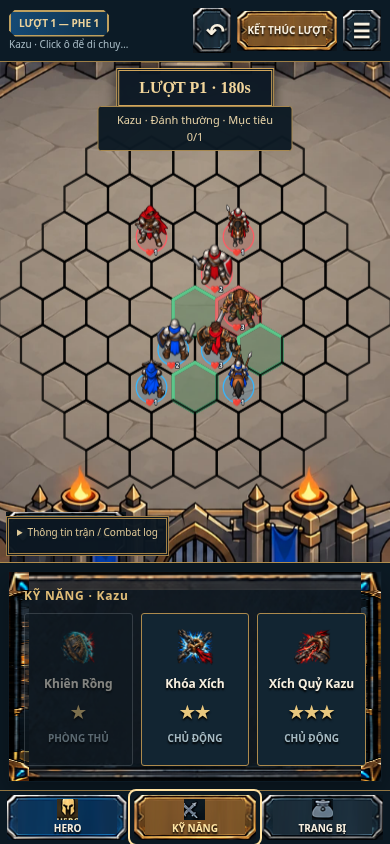
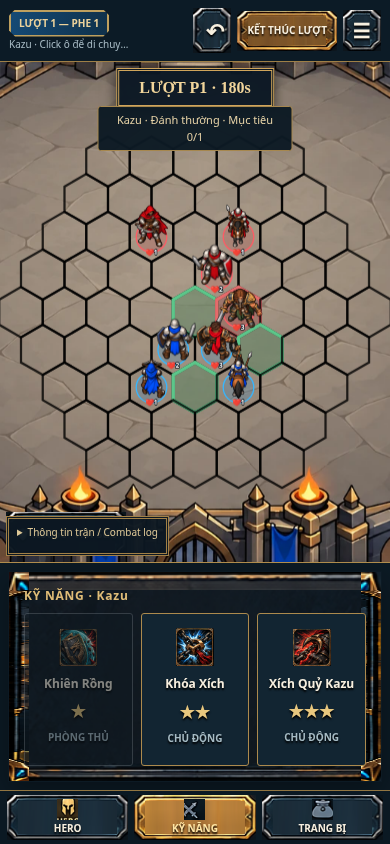
fix(ui): restore framed Kazu skill concept backgrounds

diff --git a/index.html b/index.html
@@ -4,12 +4,12 @@
 <meta charset="utf-8" />
 <meta name="viewport" content="width=device-width,initial-scale=1" />
 <title>Dozen War II — Chiến thuật Đối đầu</title>
-<link rel="stylesheet" href="./styles/main.css?v=1.73.1">
-<link rel="stylesheet" href="./assets/ui/dw-style-01/theme.css?v=1.73.1">
-<link rel="stylesheet" href="./assets/ui/dw-style-01/concept-fidelity.css?v=1.73.1">
-<link rel="stylesheet" href="./assets/ui/dw-style-01/pack.css?v=1.73.1">
+<link rel="stylesheet" href="./styles/main.css?v=1.73.2">
+<link rel="stylesheet" href="./assets/ui/dw-style-01/theme.css?v=1.73.2">
+<link rel="stylesheet" href="./assets/ui/dw-style-01/concept-fidelity.css?v=1.73.2">
+<link rel="stylesheet" href="./assets/ui/dw-style-01/pack.css?v=1.73.2">
 </head>
-<body class="dwUI" data-build-version="1.73.1">
+<body class="dwUI" data-build-version="1.73.2">
 <div class="wrap">
   <div class="top"><div class="brand">DOZEN WAR <b>II</b></div><div class="phase" id="phaseLabel" data-dw-id="SHELL_UI_PHASE_LABEL">CHỌN CHẾ ĐỘ</div></div>
   <div class="grid">
@@ -122,47 +122,47 @@
 <div class="gameOverOverlay" id="gameOverOverlay" data-dw-id="SHELL_UI_GAME_OVER" aria-hidden="true"><div class="gameOverPopup"><div class="gameOverTitle" id="gameOverTitle" data-dw-id="SHELL_UI_GAME_OVER_TITLE">KẾT THÚC TRẬN</div><div class="muted" id="gameOverText" data-dw-id="SHELL_UI_GAME_OVER_TEXT" style="margin-top:8px"></div><div class="resultGrid" id="gameOverResultGrid" data-dw-id="SHELL_UI_GAME_OVER_RESULT_GRID"><div class="resultCard" id="playerResult1" data-dw-id="SHELL_UI_GAME_OVER_P1_CARD"><div class="resultPlayer">PLAYER 1</div><div class="resultOutcome" id="playerResult1Outcome" data-dw-id="SHELL_UI_GAME_OVER_P1_OUTCOME">—</div></div><div class="resultCard" id="playerResult2" data-dw-id="SHELL_UI_GAME_OVER_P2_CARD"><div class="resultPlayer" id="playerResult2Name" data-dw-id="SHELL_UI_GAME_OVER_P2_NAME">PLAYER 2</div><div class="resultOutcome" id="playerResult2Outcome" data-dw-id="SHELL_UI_GAME_OVER_P2_OUTCOME">—</div></div></div><div class="rematchMeta"><div><span class="roomPersistTag">ROOM PERSISTENT</span></div><div><b>Room:</b> <span id="gameOverRoom" data-dw-id="SHELL_UI_GAME_OVER_ROOM">-</span></div><div><b>Mode:</b> <span id="gameOverMode" data-dw-id="SHELL_UI_GAME_OVER_MODE">-</span></div><div><b>Match:</b> <span id="gameOverMatch" data-dw-id="SHELL_UI_GAME_OVER_MATCH">-</span></div></div><div class="rematchPlayers" id="rematchPlayers" data-dw-id="SHELL_UI_REMATCH"></div><div class="rematchHint" id="rematchHint" data-dw-id="SHELL_UI_REMATCH_HINT">Chơi lại sẽ giữ nguyên Room/Mode/Player Slot và tạo Match mới sau khi đủ người đồng ý.</div><div class="gameOverActions" id="gameOverActions" data-dw-id="SHELL_UI_GAME_OVER_ACTIONS"><button class="btn gold" id="rematchBtn" data-dw-id="SHELL_UI_REMATCH_BUTTON">CHƠI LẠI</button><button class="btn" id="leaveMatchBtn" data-dw-id="SHELL_UI_LEAVE_BUTTON">RỜI KHỎI</button></div></div></div>
 
 
-<script defer src="./src/architecture/module-boundaries.js?v=1.73.1"></script>
-<script defer src="./src/ui/ui-dom-runtime.js?v=1.73.1"></script>
-<script defer src="./src/legacy/legacy-prelude-a-tail.js?v=1.73.1"></script>
-<script defer src="./src/mode/mode-registry-runtime.js?v=1.73.1"></script>
-<script defer src="./src/shell/shell-kernel-runtime.js?v=1.73.1"></script>
-<script defer src="./src/mode/mode-definitions-runtime.js?v=1.73.1"></script>
-<script defer src="./src/presentation/hero-fallback-runtime.js?v=1.73.1"></script>
-<script defer src="./src/legacy/legacy-prelude-c.js?v=1.73.1"></script>
-<script defer src="./src/content/content-prelude-runtime.js?v=1.73.1"></script>
-<script defer src="./src/presentation/asset-definitions-runtime.js?v=1.73.1"></script>
-<script defer src="./locales/vi-VN-runtime.js?v=1.73.1"></script>
-<script defer src="./src/content/content-runtime.js?v=1.73.1"></script>
-<script defer src="./src/core/core-foundation-runtime.js?v=1.73.1"></script>
-<script defer src="./src/shell/shell-flow-runtime.js?v=1.73.1"></script>
-<script defer src="./src/core/core-runtime-a.js?v=1.73.1"></script>
-<script defer src="./assets/heroes-camera-06/catalog.js?v=1.73.1"></script>
-<script defer src="./assets/troops-camera-team/catalog.js?v=1.73.1"></script>
-<script defer src="./assets/heroes-camera-06/renderer.js?v=1.73.1"></script>
-<script defer src="./src/presentation/board-renderer-runtime.js?v=1.73.1"></script>
-<script defer src="./src/presentation/duel-board-layout-runtime.js?v=1.73.1"></script>
-<script defer src="./src/presentation/duel-camera-runtime.js?v=1.73.1"></script>
-<script defer src="./src/core/core-runtime-b.js?v=1.73.1"></script>
-<script defer src="./src/shell/shell-session-runtime.js?v=1.73.1"></script>
-<script defer src="./src/legacy/legacy-ai-runtime.js?v=1.73.1"></script>
-<script defer src="./src/shell/shell-gameover-runtime.js?v=1.73.1"></script>
-<script defer src="./src/mode/duel-turn-runtime.js?v=1.73.1"></script>
-<script defer src="./src/debug/playtest-qa-runtime.js?v=1.73.1"></script>
-<script defer src="./src/core/hero-roster-runtime.js?v=1.73.1"></script>
-<script defer src="./src/ui/hero-skill-ui-runtime.js?v=1.73.1"></script>
-<script defer src="./src/core/equipment-runtime.js?v=1.73.1"></script>
-<script defer src="./src/core/multi-equipment-runtime.js?v=1.73.1"></script>
-<script defer src="./src/ui/combat-flow-ui-runtime.js?v=1.73.1"></script>
-<script defer src="./src/shell/shell-boot-runtime.js?v=1.73.1"></script>
-<script defer src="./src/mode/training-runtime.js?v=1.73.1"></script>
-<script defer src="./src/ui/direct-board-flow-runtime.js?v=1.73.1"></script>
-<script defer src="./src/ui/direct-defense-flow-runtime.js?v=1.73.1"></script>
-<script defer src="./src/ui/defense-feedback-runtime.js?v=1.73.1"></script>
-<script defer src="./assets/ui/dw-style-01/pack.js?v=1.73.1"></script>
-<script defer src="./assets/ui/dw-style-01/concept-skins.js?v=1.73.1"></script>
-<script defer src="./src/presentation/dw-ui-runtime.js?v=1.73.1"></script>
-<script defer src="./assets/ui/dw-style-01/pack-runtime.js?v=1.73.1"></script>
-<script defer src="./src/bootstrap.js?v=1.73.1"></script>
+<script defer src="./src/architecture/module-boundaries.js?v=1.73.2"></script>
+<script defer src="./src/ui/ui-dom-runtime.js?v=1.73.2"></script>
+<script defer src="./src/legacy/legacy-prelude-a-tail.js?v=1.73.2"></script>
+<script defer src="./src/mode/mode-registry-runtime.js?v=1.73.2"></script>
+<script defer src="./src/shell/shell-kernel-runtime.js?v=1.73.2"></script>
+<script defer src="./src/mode/mode-definitions-runtime.js?v=1.73.2"></script>
+<script defer src="./src/presentation/hero-fallback-runtime.js?v=1.73.2"></script>
+<script defer src="./src/legacy/legacy-prelude-c.js?v=1.73.2"></script>
+<script defer src="./src/content/content-prelude-runtime.js?v=1.73.2"></script>
+<script defer src="./src/presentation/asset-definitions-runtime.js?v=1.73.2"></script>
+<script defer src="./locales/vi-VN-runtime.js?v=1.73.2"></script>
+<script defer src="./src/content/content-runtime.js?v=1.73.2"></script>
+<script defer src="./src/core/core-foundation-runtime.js?v=1.73.2"></script>
+<script defer src="./src/shell/shell-flow-runtime.js?v=1.73.2"></script>
+<script defer src="./src/core/core-runtime-a.js?v=1.73.2"></script>
+<script defer src="./assets/heroes-camera-06/catalog.js?v=1.73.2"></script>
+<script defer src="./assets/troops-camera-team/catalog.js?v=1.73.2"></script>
+<script defer src="./assets/heroes-camera-06/renderer.js?v=1.73.2"></script>
+<script defer src="./src/presentation/board-renderer-runtime.js?v=1.73.2"></script>
+<script defer src="./src/presentation/duel-board-layout-runtime.js?v=1.73.2"></script>
+<script defer src="./src/presentation/duel-camera-runtime.js?v=1.73.2"></script>
+<script defer src="./src/core/core-runtime-b.js?v=1.73.2"></script>
+<script defer src="./src/shell/shell-session-runtime.js?v=1.73.2"></script>
+<script defer src="./src/legacy/legacy-ai-runtime.js?v=1.73.2"></script>
+<script defer src="./src/shell/shell-gameover-runtime.js?v=1.73.2"></script>
+<script defer src="./src/mode/duel-turn-runtime.js?v=1.73.2"></script>
+<script defer src="./src/debug/playtest-qa-runtime.js?v=1.73.2"></script>
+<script defer src="./src/core/hero-roster-runtime.js?v=1.73.2"></script>
+<script defer src="./src/ui/hero-skill-ui-runtime.js?v=1.73.2"></script>
+<script defer src="./src/core/equipment-runtime.js?v=1.73.2"></script>
+<script defer src="./src/core/multi-equipment-runtime.js?v=1.73.2"></script>
+<script defer src="./src/ui/combat-flow-ui-runtime.js?v=1.73.2"></script>
+<script defer src="./src/shell/shell-boot-runtime.js?v=1.73.2"></script>
+<script defer src="./src/mode/training-runtime.js?v=1.73.2"></script>
+<script defer src="./src/ui/direct-board-flow-runtime.js?v=1.73.2"></script>
+<script defer src="./src/ui/direct-defense-flow-runtime.js?v=1.73.2"></script>
+<script defer src="./src/ui/defense-feedback-runtime.js?v=1.73.2"></script>
+<script defer src="./assets/ui/dw-style-01/pack.js?v=1.73.2"></script>
+<script defer src="./assets/ui/dw-style-01/concept-skins.js?v=1.73.2"></script>
+<script defer src="./src/presentation/dw-ui-runtime.js?v=1.73.2"></script>
+<script defer src="./assets/ui/dw-style-01/pack-runtime.js?v=1.73.2"></script>
+<script defer src="./src/bootstrap.js?v=1.73.2"></script>
 </body>
 </html>

diff --git a/visual-previews/kazu-skills-dw-style-01/index.html b/visual-previews/kazu-skills-dw-style-01/index.html
@@ -7,20 +7,21 @@
   <style>
     *{box-sizing:border-box}body{margin:0;background:#09131c;color:#eee2ca;font:16px/1.6 system-ui,sans-serif}main{max-width:1584px;margin:auto;padding:24px}h1{font:700 clamp(24px,4vw,38px) Georgia,serif;color:#e8bd71}nav{display:flex;gap:14px;flex-wrap:wrap;margin:20px 0}a{color:#a5ddf1}nav a{padding:10px 16px;border:1px solid #ab884d;border-radius:4px;background:#16232e;text-decoration:none}img{display:block;width:100%;height:auto;border:1px solid #79613c}.note{color:#b9c5cc}p{max-width:950px}
   .icons{display:grid;grid-template-columns:repeat(3,minmax(0,1fr));gap:12px}.icons figure{margin:0}.icons img{background:repeating-conic-gradient(#273540 0% 25%,#1c2832 0% 50%) 0/24px 24px}.icons figcaption{text-align:center}@media(max-width:600px){.icons{grid-template-columns:1fr}}
+.framedPreview{display:block;position:relative;overflow:hidden}.icons .framedPreview img{background:none}
   </style>
 </head>
 <body>
 <main>
   <h1>Kazu · Visual kỹ năng · DW-STYLE-01</h1>
   <p><strong>Concept gốc:</strong> Khiên Rồng ★ · Khóa Xích ★★ · Xích Quỷ Kazu ★★★.</p>
-  <p>Ba icon đã tách nền, bỏ chữ và khung ngoài, được đưa vào màn chọn Hero và thanh kỹ năng Kazu. Đây là hình minh họa kỹ năng; hiệu ứng chiến đấu vẫn theo luật hiện tại.</p><nav>
-<a href="../../?v=1.73.1">Chơi thử v1.73.1</a>
-<a href="kazu-transparent-png.zip" download>Tải bộ 3 PNG trong suốt</a>
+  <p>Ba icon dùng trực tiếp hình concept gốc, giữ viền vàng cũ và nền hiệu ứng xanh ngọc, xanh lam, đỏ. Đã áp dụng vào màn chọn Hero và thanh kỹ năng Kazu. Đây là hình minh họa kỹ năng; hiệu ứng chiến đấu vẫn theo luật hiện tại.</p><nav>
+<a href="../../?v=1.73.2">Chơi thử v1.73.2</a>
+<a href="kazu-transparent-png.zip" download>Tải PNG trong suốt · bản cũ</a>
     <a href="kazu-skills-dw-style-01.png" target="_blank" rel="noopener">Mở ảnh PNG gốc</a>
     <a href="kazu-skills-dw-style-01.png" download="Kazu-skills-DW-STYLE-01.png">Tải PNG · 1536 × 1024</a>
   </nav>
-<section class="icons"><figure><img src="../../assets/skills/kazu-dw-style-01/shield.png" alt="Khiên Rồng"><figcaption>Khiên Rồng · <a href="../../assets/skills/kazu-dw-style-01/shield.png" download>Tải PNG</a></figcaption></figure><figure><img src="../../assets/skills/kazu-dw-style-01/chain.png" alt="Khóa Xích"><figcaption>Khóa Xích · <a href="../../assets/skills/kazu-dw-style-01/chain.png" download>Tải PNG</a></figcaption></figure><figure><img src="../../assets/skills/kazu-dw-style-01/dragon.png" alt="Xích Quỷ Kazu"><figcaption>Xích Quỷ Kazu · <a href="../../assets/skills/kazu-dw-style-01/dragon.png" download>Tải PNG</a></figcaption></figure></section>
-<h2>Ảnh chụp thực tế trong game</h2><nav><a href="ingame-desktop.png">Desktop · 1920 × 1080</a><a href="ingame-mobile.png">Mobile · 390 × 844</a><a href="ingame-online.png">Online hai người</a></nav><a href="ingame-desktop.png"><img src="ingame-desktop.png" alt="Kazu trong game v1.73.1 với ba icon kỹ năng nền trong suốt"></a><h2>Concept gốc lưu đối chiếu</h2>
+<section class="icons"><figure><span class="framedPreview" style="aspect-ratio:485/478"><img src="../../assets/skills/kazu-dw-style-01/framed-sheet.png" alt="Khiên Rồng có viền và nền" style="position:absolute;width:316.70103092783506%;height:214.22594142259413%;max-width:none;left:-6.185567010309279%;top:-56.48535564853556%;border:0"></span><figcaption>Khiên Rồng</figcaption></figure><figure><span class="framedPreview" style="aspect-ratio:477/478"><img src="../../assets/skills/kazu-dw-style-01/framed-sheet.png" alt="Khóa Xích có viền và nền" style="position:absolute;width:322.01257861635224%;height:214.22594142259413%;max-width:none;left:-111.9496855345912%;top:-56.48535564853556%;border:0"></span><figcaption>Khóa Xích</figcaption></figure><figure><span class="framedPreview" style="aspect-ratio:482/478"><img src="../../assets/skills/kazu-dw-style-01/framed-sheet.png" alt="Xích Quỷ Kazu có viền và nền" style="position:absolute;width:318.6721991701245%;height:214.22594142259413%;max-width:none;left:-213.07053941908714%;top:-56.48535564853556%;border:0"></span><figcaption>Xích Quỷ Kazu</figcaption></figure></section><details><summary>Lưu trữ bản PNG trong suốt trước đây</summary><section class="icons"><figure><img src="../../assets/skills/kazu-dw-style-01/shield.png" alt="Khiên Rồng"><figcaption>Khiên Rồng · <a href="../../assets/skills/kazu-dw-style-01/shield.png" download>Tải PNG</a></figcaption></figure><figure><img src="../../assets/skills/kazu-dw-style-01/chain.png" alt="Khóa Xích"><figcaption>Khóa Xích · <a href="../../assets/skills/kazu-dw-style-01/chain.png" download>Tải PNG</a></figcaption></figure><figure><img src="../../assets/skills/kazu-dw-style-01/dragon.png" alt="Xích Quỷ Kazu"><figcaption>Xích Quỷ Kazu · <a href="../../assets/skills/kazu-dw-style-01/dragon.png" download>Tải PNG</a></figcaption></figure></section></details>
+<h2>Ảnh chụp thực tế trong game</h2><nav><a href="ingame-desktop.png">Desktop · 1920 × 1080</a><a href="ingame-mobile.png">Mobile · 390 × 844</a><a href="ingame-online.png">Online hai người</a></nav><a href="ingame-desktop.png"><img src="ingame-desktop.png" alt="Kazu trong game v1.73.2 với ba icon kỹ năng có viền vàng và nền màu"></a><h2>Concept gốc lưu đối chiếu</h2>
   <a href="kazu-skills-dw-style-01.png"><img src="kazu-skills-dw-style-01.png" width="1536" height="1024" alt="Ba visual kỹ năng Kazu: Khiên Rồng với lớp bảo hộ xanh ngọc, Khóa Xích với khóa kim loại và xích trên nền xanh, Xích Quỷ Kazu với móc kéo và xích trên nền đỏ."></a>
   <p class="note">Đây là ảnh gốc đã tạo, giữ nguyên chất lượng. Bạn có thể mở ảnh rồi dùng “Lưu hình ảnh thành…” nếu trình duyệt không tải trực tiếp.</p>
 </main>

diff --git a/dist/index.html b/dist/index.html
@@ -5,11 +5,11 @@
 <meta name="viewport" content="width=device-width,initial-scale=1" />
 <title>Dozen War II — Chiến thuật Đối đầu</title>
 <link rel="stylesheet" href="./assets/app.67385980da13.css">
-<link rel="stylesheet" href="./assets/ui/dw-style-01/theme.css?v=1.73.1">
-<link rel="stylesheet" href="./assets/ui/dw-style-01/concept-fidelity.css?v=1.73.1">
-<link rel="stylesheet" href="./assets/ui/dw-style-01/pack.css?v=1.73.1">
+<link rel="stylesheet" href="./assets/ui/dw-style-01/theme.css?v=1.73.2">
+<link rel="stylesheet" href="./assets/ui/dw-style-01/concept-fidelity.css?v=1.73.2">
+<link rel="stylesheet" href="./assets/ui/dw-style-01/pack.css?v=1.73.2">
 </head>
-<body class="dwUI" data-build-version="1.73.1">
+<body class="dwUI" data-build-version="1.73.2">
 <div class="wrap">
   <div class="top"><div class="brand">DOZEN WAR <b>II</b></div><div class="phase" id="phaseLabel" data-dw-id="SHELL_UI_PHASE_LABEL">CHỌN CHẾ ĐỘ</div></div>
   <div class="grid">
@@ -120,6 +120,6 @@
   </div>
 </div>
 <div class="gameOverOverlay" id="gameOverOverlay" data-dw-id="SHELL_UI_GAME_OVER" aria-hidden="true"><div class="gameOverPopup"><div class="gameOverTitle" id="gameOverTitle" data-dw-id="SHELL_UI_GAME_OVER_TITLE">KẾT THÚC TRẬN</div><div class="muted" id="gameOverText" data-dw-id="SHELL_UI_GAME_OVER_TEXT" style="margin-top:8px"></div><div class="resultGrid" id="gameOverResultGrid" data-dw-id="SHELL_UI_GAME_OVER_RESULT_GRID"><div class="resultCard" id="playerResult1" data-dw-id="SHELL_UI_GAME_OVER_P1_CARD"><div class="resultPlayer">PLAYER 1</div><div class="resultOutcome" id="playerResult1Outcome" data-dw-id="SHELL_UI_GAME_OVER_P1_OUTCOME">—</div></div><div class="resultCard" id="playerResult2" data-dw-id="SHELL_UI_GAME_OVER_P2_CARD"><div class="resultPlayer" id="playerResult2Name" data-dw-id="SHELL_UI_GAME_OVER_P2_NAME">PLAYER 2</div><div class="resultOutcome" id="playerResult2Outcome" data-dw-id="SHELL_UI_GAME_OVER_P2_OUTCOME">—</div></div></div><div class="rematchMeta"><div><span class="roomPersistTag">ROOM PERSISTENT</span></div><div><b>Room:</b> <span id="gameOverRoom" data-dw-id="SHELL_UI_GAME_OVER_ROOM">-</span></div><div><b>Mode:</b> <span id="gameOverMode" data-dw-id="SHELL_UI_GAME_OVER_MODE">-</span></div><div><b>Match:</b> <span id="gameOverMatch" data-dw-id="SHELL_UI_GAME_OVER_MATCH">-</span></div></div><div class="rematchPlayers" id="rematchPlayers" data-dw-id="SHELL_UI_REMATCH"></div><div class="rematchHint" id="rematchHint" data-dw-id="SHELL_UI_REMATCH_HINT">Chơi lại sẽ giữ nguyên Room/Mode/Player Slot và tạo Match mới sau khi đủ người đồng ý.</div><div class="gameOverActions" id="gameOverActions" data-dw-id="SHELL_UI_GAME_OVER_ACTIONS"><button class="btn gold" id="rematchBtn" data-dw-id="SHELL_UI_REMATCH_BUTTON">CHƠI LẠI</button><button class="btn" id="leaveMatchBtn" data-dw-id="SHELL_UI_LEAVE_BUTTON">RỜI KHỎI</button></div></div></div>
-<script defer src="./assets/runtime.48b6d31e8a61.js"></script>
+<script defer src="./assets/runtime.1cdc72a54972.js"></script>
 </body>
 </html>

diff --git a/dist/online/index.html b/dist/online/index.html
@@ -4,20 +4,20 @@
     <meta charset="utf-8" />
     <meta name="viewport" content="width=device-width,initial-scale=1" />
     <title>DozenWar · Online 1v1</title>
-    <link rel="stylesheet" href="./style.css?v=1.73.1" />
-    <link rel="stylesheet" href="../assets/ui/dw-style-01/theme.css?v=1.73.1" />
-<link rel="stylesheet" href="../assets/ui/dw-style-01/concept-fidelity.css?v=1.73.1">
-<link rel="stylesheet" href="../assets/ui/dw-style-01/pack.css?v=1.73.1">
+    <link rel="stylesheet" href="./style.css?v=1.73.2" />
+    <link rel="stylesheet" href="../assets/ui/dw-style-01/theme.css?v=1.73.2" />
+<link rel="stylesheet" href="../assets/ui/dw-style-01/concept-fidelity.css?v=1.73.2">
+<link rel="stylesheet" href="../assets/ui/dw-style-01/pack.css?v=1.73.2">
     <script defer src="./config.js"></script>
-    <script defer src="../assets/heroes-camera-06/catalog.js?v=1.73.1"></script>
-    <script defer src="../assets/troops-camera-team/catalog.js?v=1.73.1"></script>
-<script defer src="../assets/heroes-camera-06/renderer.js?v=1.73.1"></script>
-<script defer src="../assets/ui/dw-style-01/pack.js?v=1.73.1"></script>
-<script defer src="../assets/ui/dw-style-01/concept-skins.js?v=1.73.1"></script>
-    <script defer src="../assets/ui/dw-style-01/pack-runtime.js?v=1.73.1"></script>
-<script defer src="./client.js?v=1.73.1"></script>
+    <script defer src="../assets/heroes-camera-06/catalog.js?v=1.73.2"></script>
+    <script defer src="../assets/troops-camera-team/catalog.js?v=1.73.2"></script>
+<script defer src="../assets/heroes-camera-06/renderer.js?v=1.73.2"></script>
+<script defer src="../assets/ui/dw-style-01/pack.js?v=1.73.2"></script>
+<script defer src="../assets/ui/dw-style-01/concept-skins.js?v=1.73.2"></script>
+    <script defer src="../assets/ui/dw-style-01/pack-runtime.js?v=1.73.2"></script>
+<script defer src="./client.js?v=1.73.2"></script>
   </head>
-  <body class="dwUI dwOnline" data-build-version="1.73.1">
+  <body class="dwUI dwOnline" data-build-version="1.73.2">
     <header>
       <a href="../">DOZEN WAR <b>II</b></a
       ><span>ONLINE · ĐỐI ĐẦU 1V1</span

diff --git a/online/index.html b/online/index.html
@@ -4,20 +4,20 @@
     <meta charset="utf-8" />
     <meta name="viewport" content="width=device-width,initial-scale=1" />
     <title>DozenWar · Online 1v1</title>
-    <link rel="stylesheet" href="./style.css?v=1.73.1" />
-    <link rel="stylesheet" href="../assets/ui/dw-style-01/theme.css?v=1.73.1" />
-<link rel="stylesheet" href="../assets/ui/dw-style-01/concept-fidelity.css?v=1.73.1">
-<link rel="stylesheet" href="../assets/ui/dw-style-01/pack.css?v=1.73.1">
+    <link rel="stylesheet" href="./style.css?v=1.73.2" />
+    <link rel="stylesheet" href="../assets/ui/dw-style-01/theme.css?v=1.73.2" />
+<link rel="stylesheet" href="../assets/ui/dw-style-01/concept-fidelity.css?v=1.73.2">
+<link rel="stylesheet" href="../assets/ui/dw-style-01/pack.css?v=1.73.2">
     <script defer src="./config.js"></script>
-    <script defer src="../assets/heroes-camera-06/catalog.js?v=1.73.1"></script>
-    <script defer src="../assets/troops-camera-team/catalog.js?v=1.73.1"></script>
-<script defer src="../assets/heroes-camera-06/renderer.js?v=1.73.1"></script>
-<script defer src="../assets/ui/dw-style-01/pack.js?v=1.73.1"></script>
-<script defer src="../assets/ui/dw-style-01/concept-skins.js?v=1.73.1"></script>
-    <script defer src="../assets/ui/dw-style-01/pack-runtime.js?v=1.73.1"></script>
-<script defer src="./client.js?v=1.73.1"></script>
+    <script defer src="../assets/heroes-camera-06/catalog.js?v=1.73.2"></script>
+    <script defer src="../assets/troops-camera-team/catalog.js?v=1.73.2"></script>
+<script defer src="../assets/heroes-camera-06/renderer.js?v=1.73.2"></script>
+<script defer src="../assets/ui/dw-style-01/pack.js?v=1.73.2"></script>
+<script defer src="../assets/ui/dw-style-01/concept-skins.js?v=1.73.2"></script>
+    <script defer src="../assets/ui/dw-style-01/pack-runtime.js?v=1.73.2"></script>
+<script defer src="./client.js?v=1.73.2"></script>
   </head>
-  <body class="dwUI dwOnline" data-build-version="1.73.1">
+  <body class="dwUI dwOnline" data-build-version="1.73.2">
     <header>
       <a href="../">DOZEN WAR <b>II</b></a
       ><span>ONLINE · ĐỐI ĐẦU 1V1</span

diff --git a/dist/assets/runtime.1cdc72a54972.js b/dist/assets/runtime.1cdc72a54972.js
@@ -7570,19 +7570,24 @@ window.DWPackUI = (() => {
   };
   // Skill identity, independent of translated labels and button ordering.
   const skillArt = Object.freeze({
-    SKILL_HERO_KAZU_S1: 'shield',
-    SKILL_HERO_KAZU_S2: 'chain',
-    SKILL_HERO_KAZU_S3: 'dragon'
+    SKILL_HERO_KAZU_S1: ['shield', [30, 270, 485, 478]],
+    SKILL_HERO_KAZU_S2: ['chain', [534, 270, 477, 478]],
+    SKILL_HERO_KAZU_S3: ['dragon', [1027, 270, 482, 478]]
   });
   function skillIcons() {
     for (const node of document.querySelectorAll('[data-skill-id]')) {
-      const key = skillArt[node.dataset.skillId];
-      if (!key || node.querySelector(':scope > .dwSkillIcon')) continue;
-      const image = document.createElement('img');
-      image.className = 'dwSkillIcon'; image.alt = ''; image.setAttribute('aria-hidden','true');
-      image.draggable = false; image.width = 1254; image.height = 1254;
-      image.src = prefix + 'assets/skills/kazu-dw-style-01/' + key + '.webp';
-      node.prepend(image);
+      const art = skillArt[node.dataset.skillId];
+      if (!art || node.querySelector(':scope > .dwSkillIcon')) continue;
+      // Display the original concept through an atlas viewport: no redrawing,
+      // CSS imitation of the gold rim, or destructive editing of the artwork.
+      const [key, [x, y, width, height]] = art;
+      const frame = document.createElement('span');
+      frame.className = 'dwSkillIcon dwFramedSkillIcon'; frame.dataset.art = key;
+      frame.setAttribute('aria-hidden','true'); frame.style.aspectRatio = width + ' / ' + height;
+      const image = document.createElement('img'); image.alt = ''; image.draggable = false;
+      image.src = prefix + 'assets/skills/kazu-dw-style-01/framed-sheet.webp';
+      image.style.cssText = 'position:absolute;max-width:none;width:' + 1536 / width * 100 + '%;height:' + 1024 / height * 100 + '%;left:' + -x / width * 100 + '%;top:' + -y / height * 100 + '%;margin:0;border:0;';
+      frame.append(image); node.prepend(frame);
     }
   }
   function trainingPreview(dialog) {

diff --git a/assets/ui/dw-style-01/pack-runtime.js b/assets/ui/dw-style-01/pack-runtime.js
@@ -9,19 +9,24 @@ window.DWPackUI = (() => {
   };
   // Skill identity, independent of translated labels and button ordering.
   const skillArt = Object.freeze({
-    SKILL_HERO_KAZU_S1: 'shield',
-    SKILL_HERO_KAZU_S2: 'chain',
-    SKILL_HERO_KAZU_S3: 'dragon'
+    SKILL_HERO_KAZU_S1: ['shield', [30, 270, 485, 478]],
+    SKILL_HERO_KAZU_S2: ['chain', [534, 270, 477, 478]],
+    SKILL_HERO_KAZU_S3: ['dragon', [1027, 270, 482, 478]]
   });
   function skillIcons() {
     for (const node of document.querySelectorAll('[data-skill-id]')) {
-      const key = skillArt[node.dataset.skillId];
-      if (!key || node.querySelector(':scope > .dwSkillIcon')) continue;
-      const image = document.createElement('img');
-      image.className = 'dwSkillIcon'; image.alt = ''; image.setAttribute('aria-hidden','true');
-      image.draggable = false; image.width = 1254; image.height = 1254;
-      image.src = prefix + 'assets/skills/kazu-dw-style-01/' + key + '.webp';
-      node.prepend(image);
+      const art = skillArt[node.dataset.skillId];
+      if (!art || node.querySelector(':scope > .dwSkillIcon')) continue;
+      // Display the original concept through an atlas viewport: no redrawing,
+      // CSS imitation of the gold rim, or destructive editing of the artwork.
+      const [key, [x, y, width, height]] = art;
+      const frame = document.createElement('span');
+      frame.className = 'dwSkillIcon dwFramedSkillIcon'; frame.dataset.art = key;
+      frame.setAttribute('aria-hidden','true'); frame.style.aspectRatio = width + ' / ' + height;
+      const image = document.createElement('img'); image.alt = ''; image.draggable = false;
+      image.src = prefix + 'assets/skills/kazu-dw-style-01/framed-sheet.webp';
+      image.style.cssText = 'position:absolute;max-width:none;width:' + 1536 / width * 100 + '%;height:' + 1024 / height * 100 + '%;left:' + -x / width * 100 + '%;top:' + -y / height * 100 + '%;margin:0;border:0;';
+      frame.append(image); node.prepend(frame);
     }
   }
   function trainingPreview(dialog) {

diff --git a/dist/assets/ui/dw-style-01/pack-runtime.js b/dist/assets/ui/dw-style-01/pack-runtime.js
@@ -9,19 +9,24 @@ window.DWPackUI = (() => {
   };
   // Skill identity, independent of translated labels and button ordering.
   const skillArt = Object.freeze({
-    SKILL_HERO_KAZU_S1: 'shield',
-    SKILL_HERO_KAZU_S2: 'chain',
-    SKILL_HERO_KAZU_S3: 'dragon'
+    SKILL_HERO_KAZU_S1: ['shield', [30, 270, 485, 478]],
+    SKILL_HERO_KAZU_S2: ['chain', [534, 270, 477, 478]],
+    SKILL_HERO_KAZU_S3: ['dragon', [1027, 270, 482, 478]]
   });
   function skillIcons() {
     for (const node of document.querySelectorAll('[data-skill-id]')) {
-      const key = skillArt[node.dataset.skillId];
-      if (!key || node.querySelector(':scope > .dwSkillIcon')) continue;
-      const image = document.createElement('img');
-      image.className = 'dwSkillIcon'; image.alt = ''; image.setAttribute('aria-hidden','true');
-      image.draggable = false; image.width = 1254; image.height = 1254;
-      image.src = prefix + 'assets/skills/kazu-dw-style-01/' + key + '.webp';
-      node.prepend(image);
+      const art = skillArt[node.dataset.skillId];
+      if (!art || node.querySelector(':scope > .dwSkillIcon')) continue;
+      // Display the original concept through an atlas viewport: no redrawing,
+      // CSS imitation of the gold rim, or destructive editing of the artwork.
+      const [key, [x, y, width, height]] = art;
+      const frame = document.createElement('span');
+      frame.className = 'dwSkillIcon dwFramedSkillIcon'; frame.dataset.art = key;
+      frame.setAttribute('aria-hidden','true'); frame.style.aspectRatio = width + ' / ' + height;
+      const image = document.createElement('img'); image.alt = ''; image.draggable = false;
+      image.src = prefix + 'assets/skills/kazu-dw-style-01/framed-sheet.webp';
+      image.style.cssText = 'position:absolute;max-width:none;width:' + 1536 / width * 100 + '%;height:' + 1024 / height * 100 + '%;left:' + -x / width * 100 + '%;top:' + -y / height * 100 + '%;margin:0;border:0;';
+      frame.append(image); node.prepend(frame);
     }
   }
   function trainingPreview(dialog) {

diff --git a/assets/ui/dw-style-01/pack.css b/assets/ui/dw-style-01/pack.css
@@ -68,6 +68,7 @@
 .dwUI .dwTeamSkill > span:not(.dwSkillIcon) { display: block; margin: 5px 0; }
 .dwUI .dwTeamHero > .btn { grid-column: 1/-1; width: 100%; margin-top: 10px; font-size: 12px; }
 .dwSkillIcon { display: block; width: 100%; height: auto; aspect-ratio: 1; max-width: 90px; object-fit: contain; margin: 0 auto 6px; pointer-events: none; }
+.dwFramedSkillIcon { position: relative; overflow: hidden; flex-shrink: 0; background: #10171c; }
 .dwConfirmDialog h3[data-skill-id], .heroSkillPanel h3[data-skill-id], .dwOnline h2[data-skill-id] { display: flex; align-items: center; gap: 12px; }
 .dwConfirmDialog h3 > .dwSkillIcon, .heroSkillPanel h3 > .dwSkillIcon, .dwOnline h2 > .dwSkillIcon { width: 56px; flex: 0 0 56px; margin: 0; }
 .dwUI.dwOnline .onlineTeamInfo > div { flex: 1; min-width: 0; }

diff --git a/dist/assets/ui/dw-style-01/pack.css b/dist/assets/ui/dw-style-01/pack.css
@@ -68,6 +68,7 @@
 .dwUI .dwTeamSkill > span:not(.dwSkillIcon) { display: block; margin: 5px 0; }
 .dwUI .dwTeamHero > .btn { grid-column: 1/-1; width: 100%; margin-top: 10px; font-size: 12px; }
 .dwSkillIcon { display: block; width: 100%; height: auto; aspect-ratio: 1; max-width: 90px; object-fit: contain; margin: 0 auto 6px; pointer-events: none; }
+.dwFramedSkillIcon { position: relative; overflow: hidden; flex-shrink: 0; background: #10171c; }
 .dwConfirmDialog h3[data-skill-id], .heroSkillPanel h3[data-skill-id], .dwOnline h2[data-skill-id] { display: flex; align-items: center; gap: 12px; }
 .dwConfirmDialog h3 > .dwSkillIcon, .heroSkillPanel h3 > .dwSkillIcon, .dwOnline h2 > .dwSkillIcon { width: 56px; flex: 0 0 56px; margin: 0; }
 .dwUI.dwOnline .onlineTeamInfo > div { flex: 1; min-width: 0; }

diff --git a/visual-previews/kazu-skills-dw-style-01/integration.md b/visual-previews/kazu-skills-dw-style-01/integration.md
@@ -1,6 +1,6 @@
-# Kazu skill art · v1.73.1
+# Kazu skill art · v1.73.2
 
-Three standalone transparent edits of the archived concept, preserving DW-STYLE-01. PNG masters and alpha-preserving WebP runtime assets are in `assets/skills/kazu-dw-style-01/`; the original sheet remains unchanged. The gallery provides the PNG archive and actual desktop/mobile/online captures.
+The active skill icons now display the original gold frame and colored background, matching the user's latest reference. A shared atlas preserves the original concept pixels exactly; HTML viewports display each framed square without titles or stars. Earlier transparent PNG/WebP derivatives remain archived. The gallery shows the current framed presentation plus desktop/mobile/online captures.
 
 Presentation resolves `SKILL_HERO_KAZU_S1/S2/S3` to shield/chain/dragon artwork. Icons appear in Hero selection, the read-only skills dialog, combat HUD, skill review, and online skill buttons. Names, costs, availability and commands remain live gameplay data. These are static UI icons; no new board animation is introduced.
 
